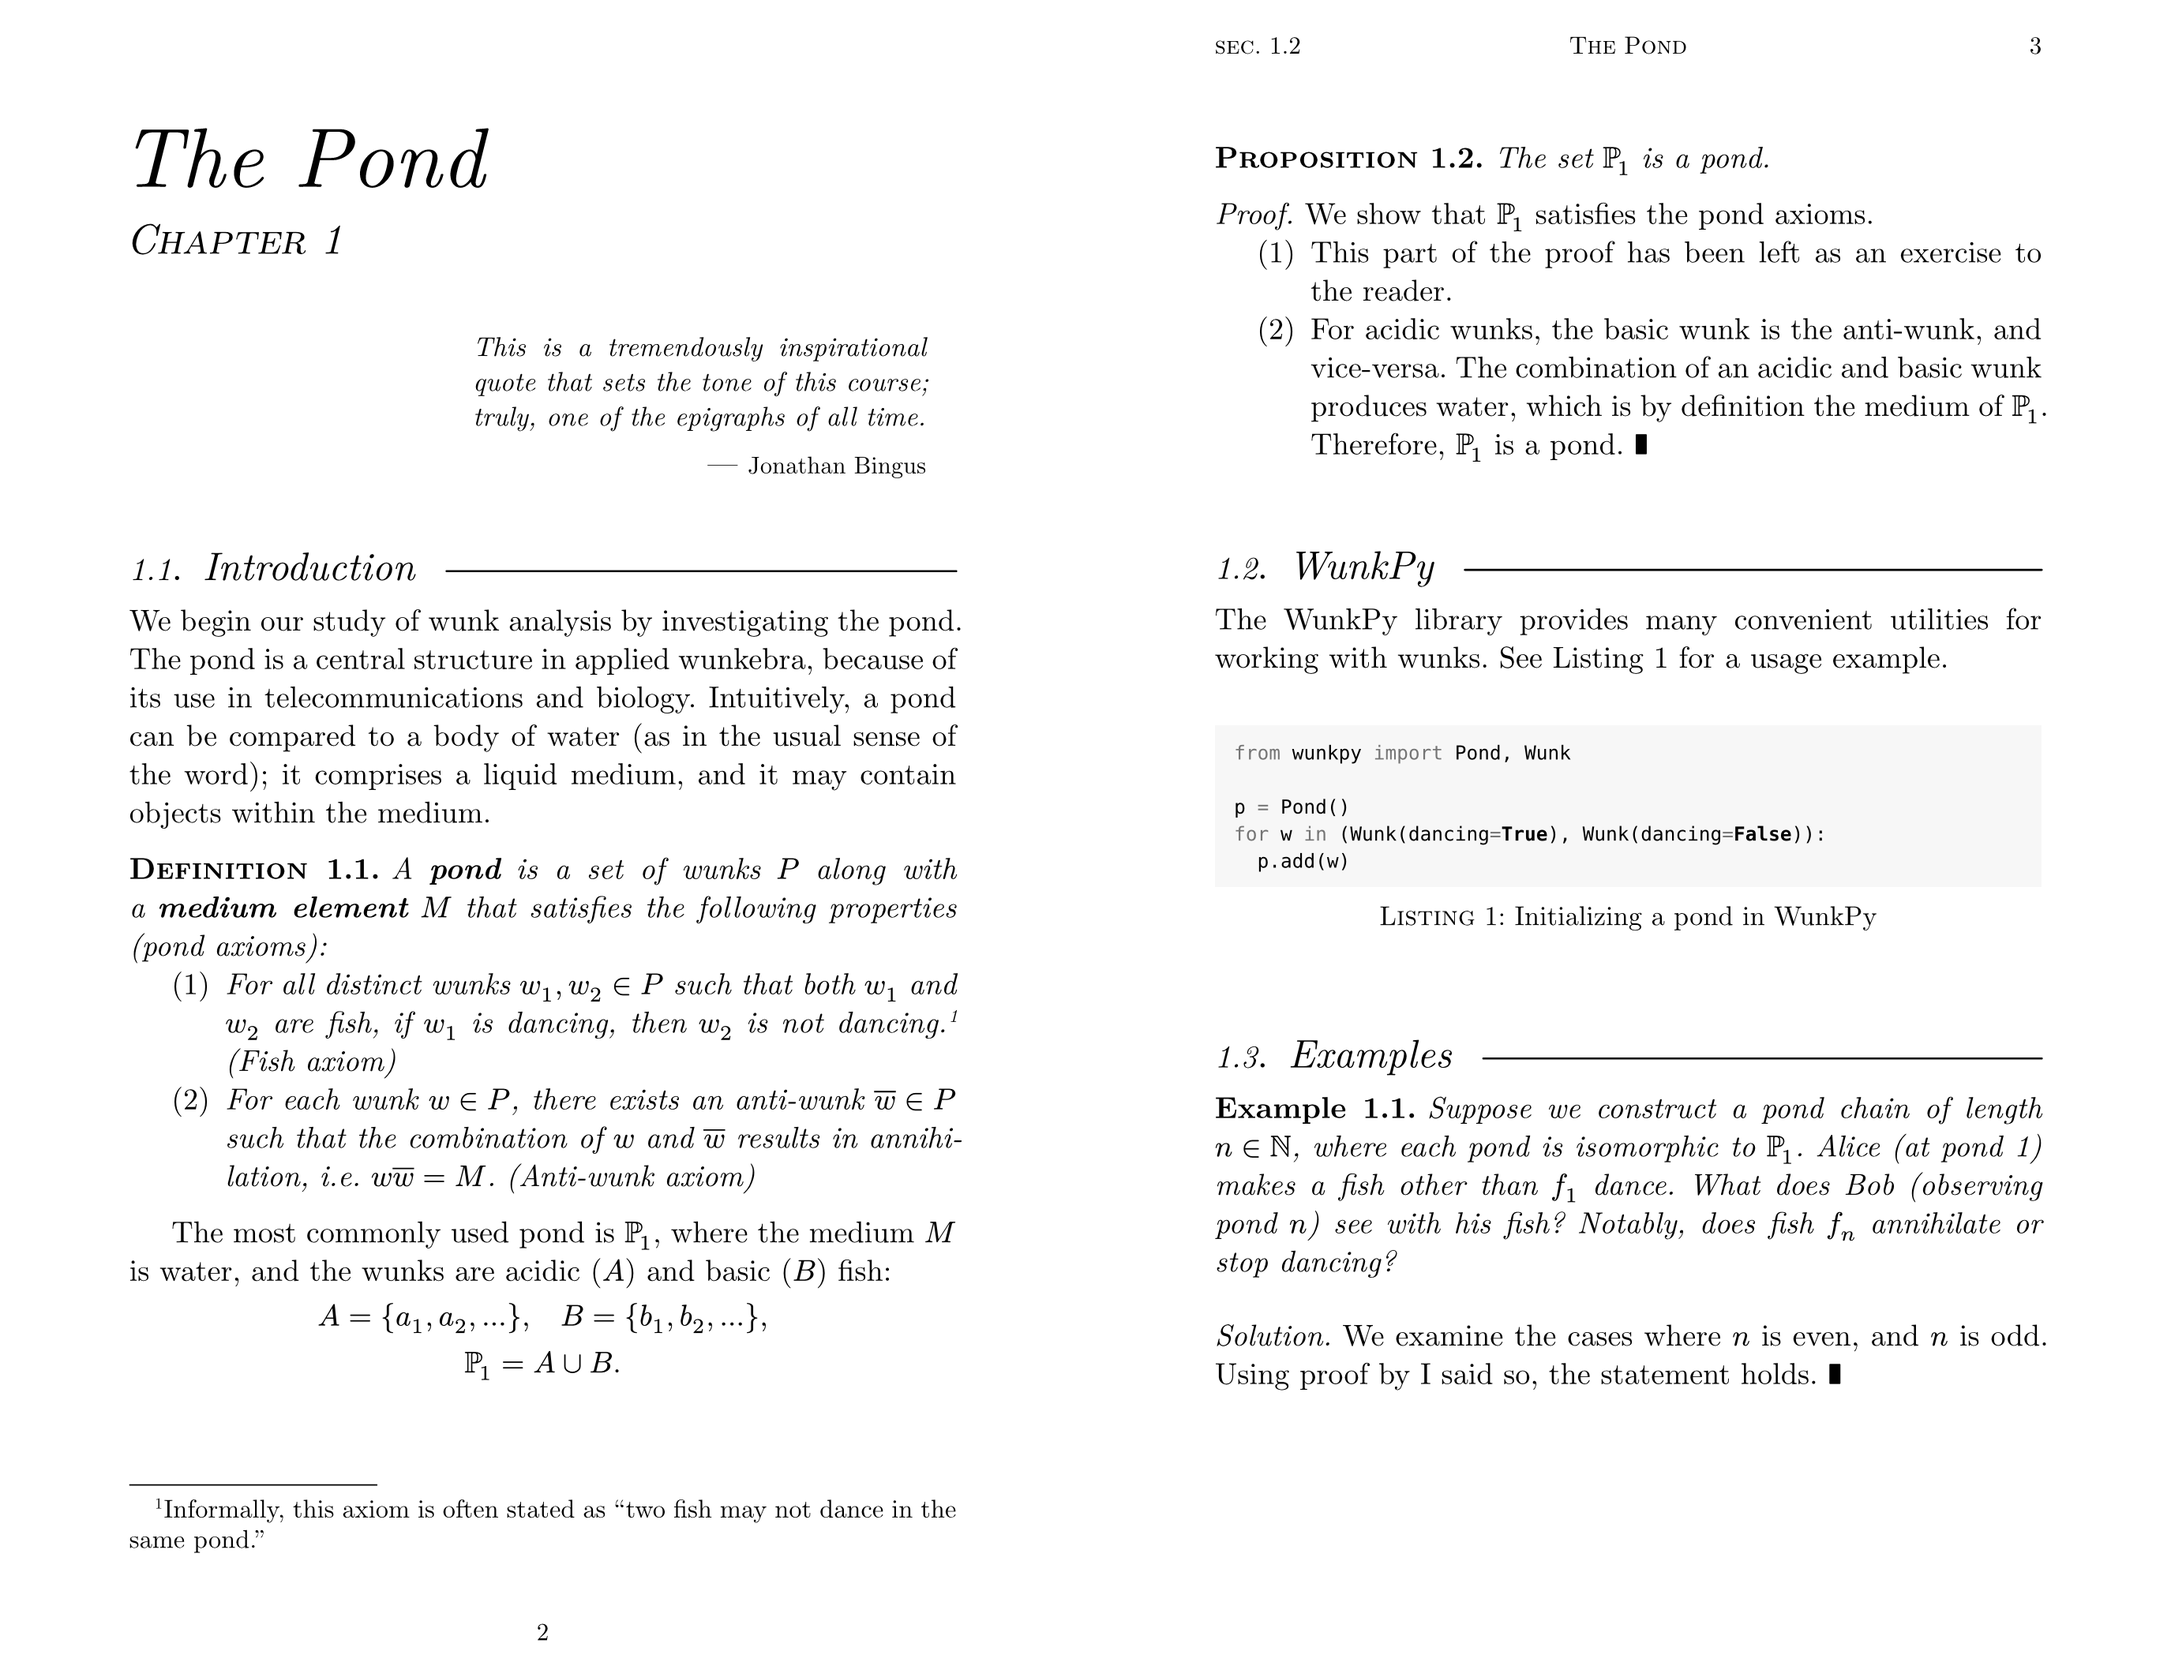
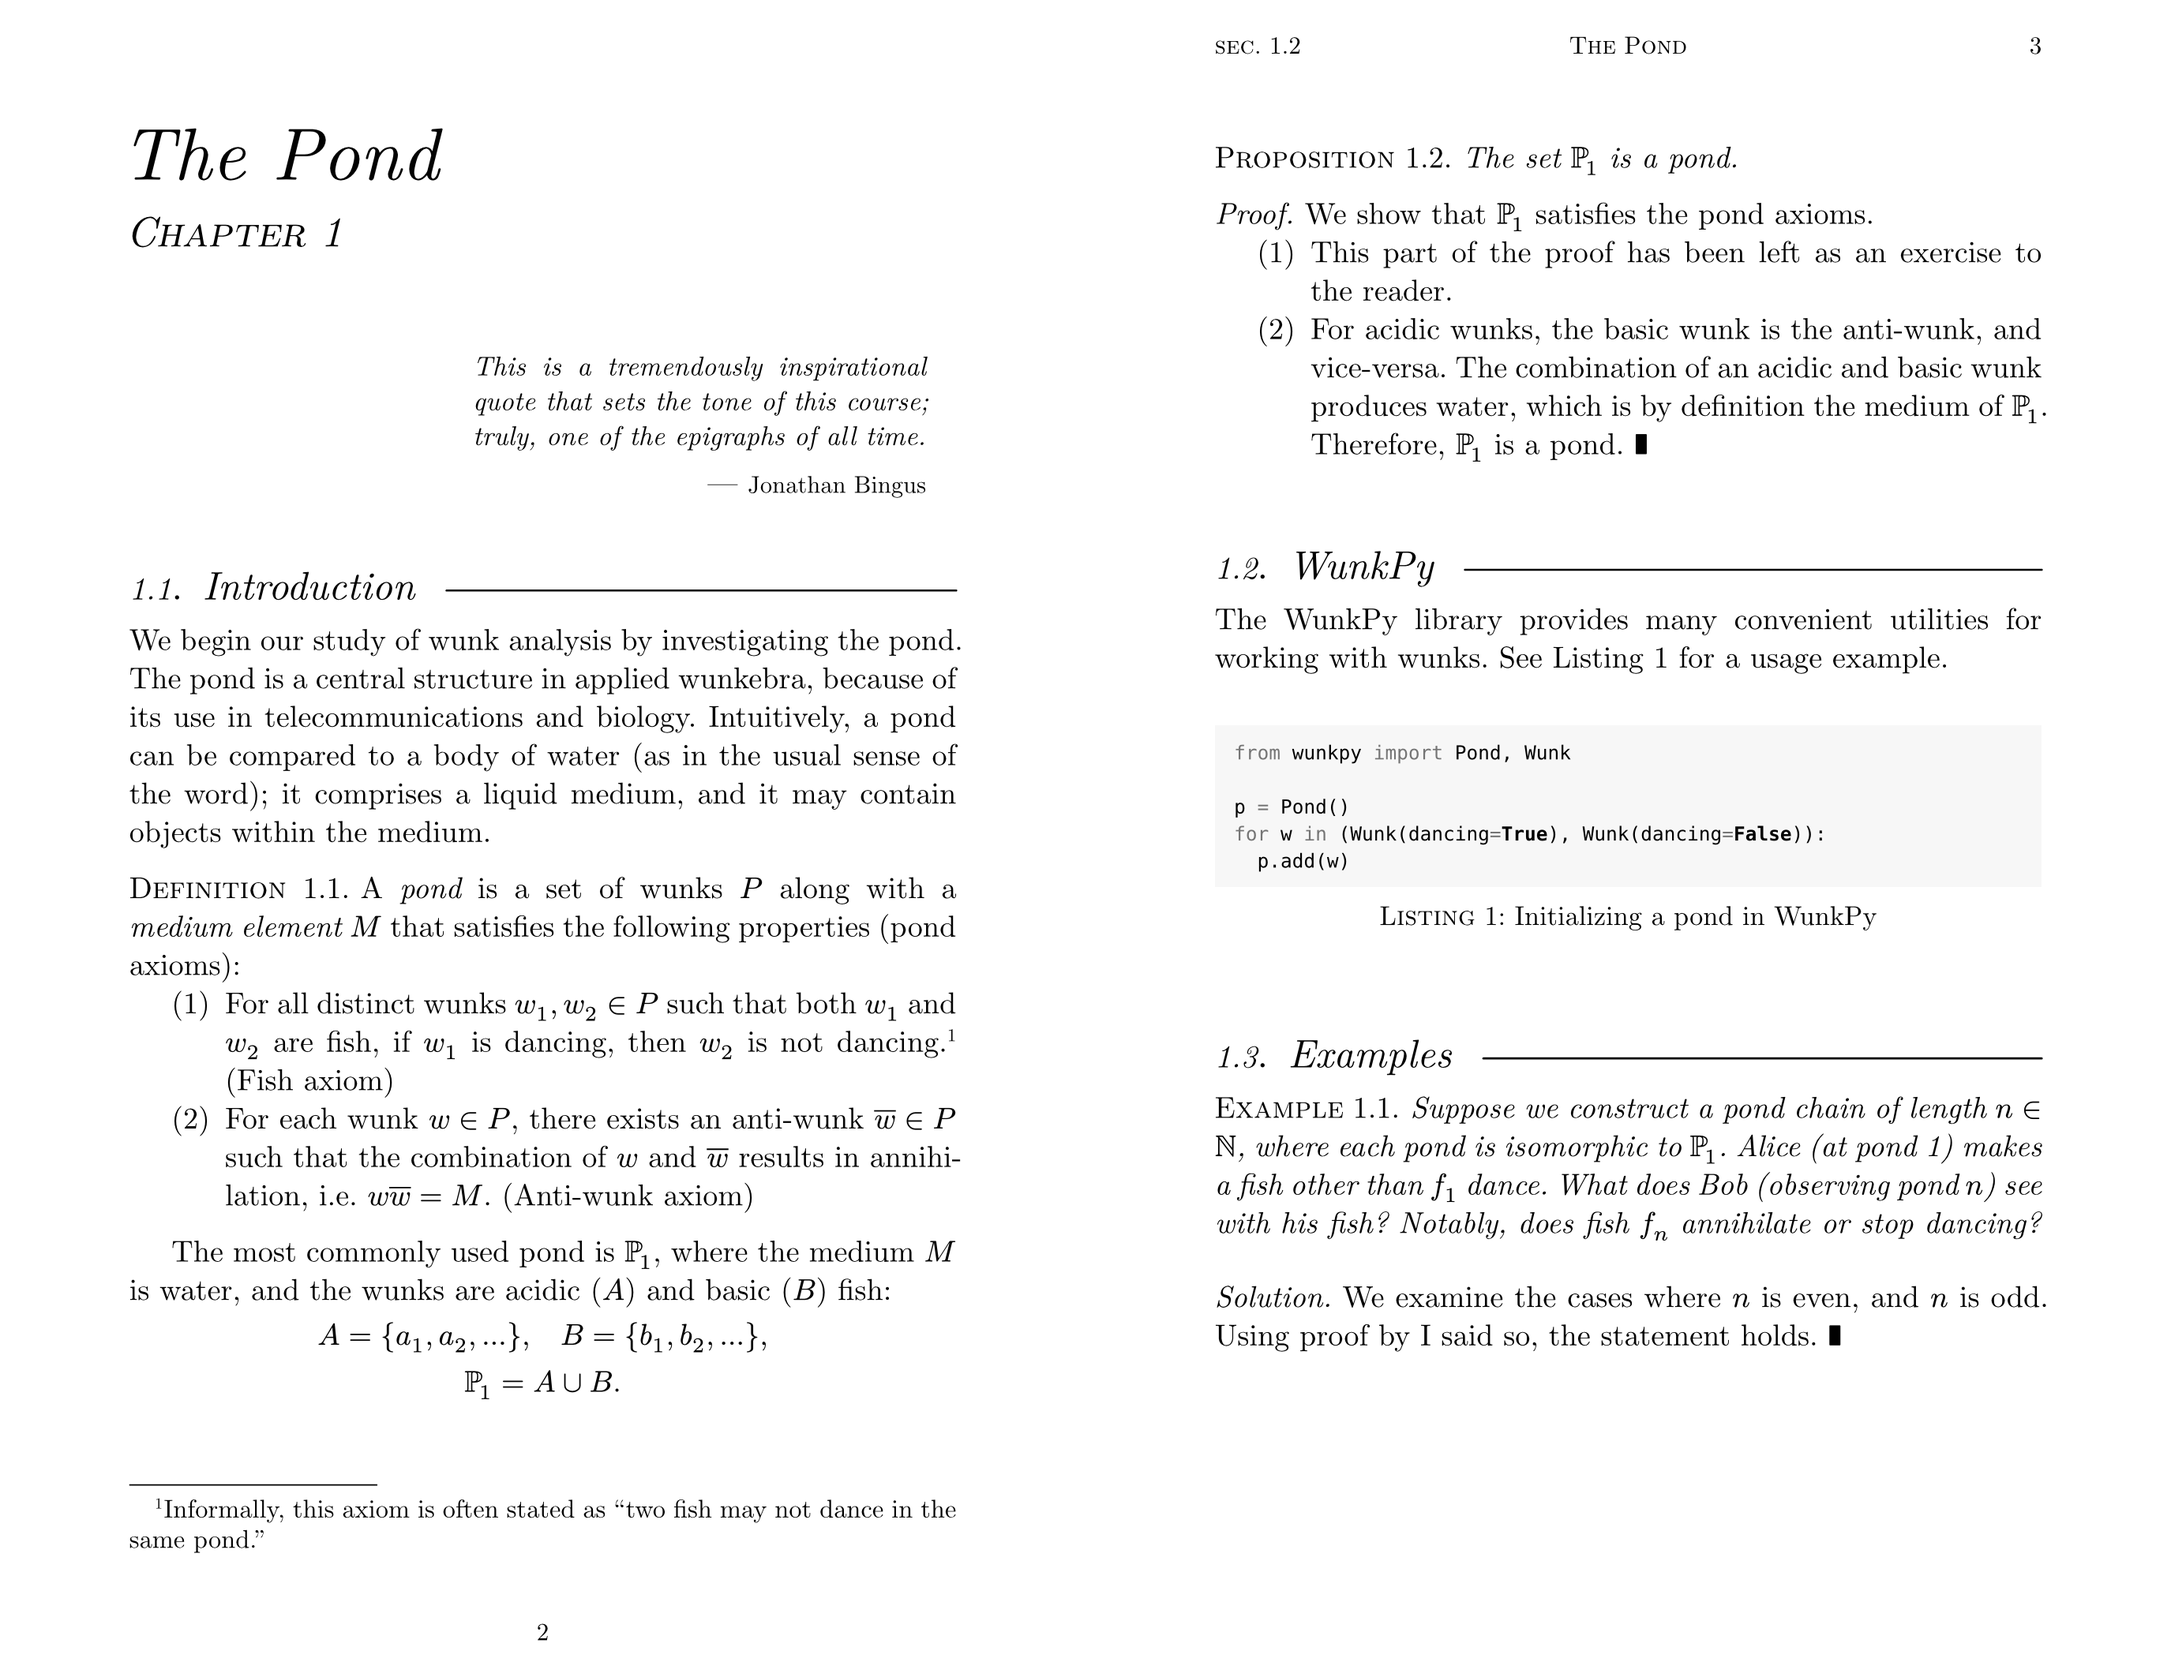
fix(theorems): less bold formatting

diff --git a/CHANGELOG.md b/CHANGELOG.md
@@ -3,6 +3,19 @@
 This changelog is based on [Keep a Changelog](https://keepachangelog.com/en/1.1.0/).
 Mousse uses [Pride Versioning](https://pridever.org/).
 
+## Unreleased
+
+In summary:
+- Reduce the amount of bold used to reduce visual noise.
+
+### Changed
+
+- Theorems use just smallcaps instead of smallcaps + bold
+- Examples are smallcaps + bold instead of just bold for consistency
+- Definitions no longer put the body in italics (following [this Stack Exchange answer][definition-italics])
+
+[definition-italics]: https://tex.stackexchange.com/questions/38260/non-italic-text-in-theorems-definitions-examples#:~:text=is%20recommended%20for-,definitions,-%2C%20conditions%2C%20problems%2C%20and
+
 ## [v2.0.0] - 2026-08-27
 
 This update is a general overhaul of Mousse.
